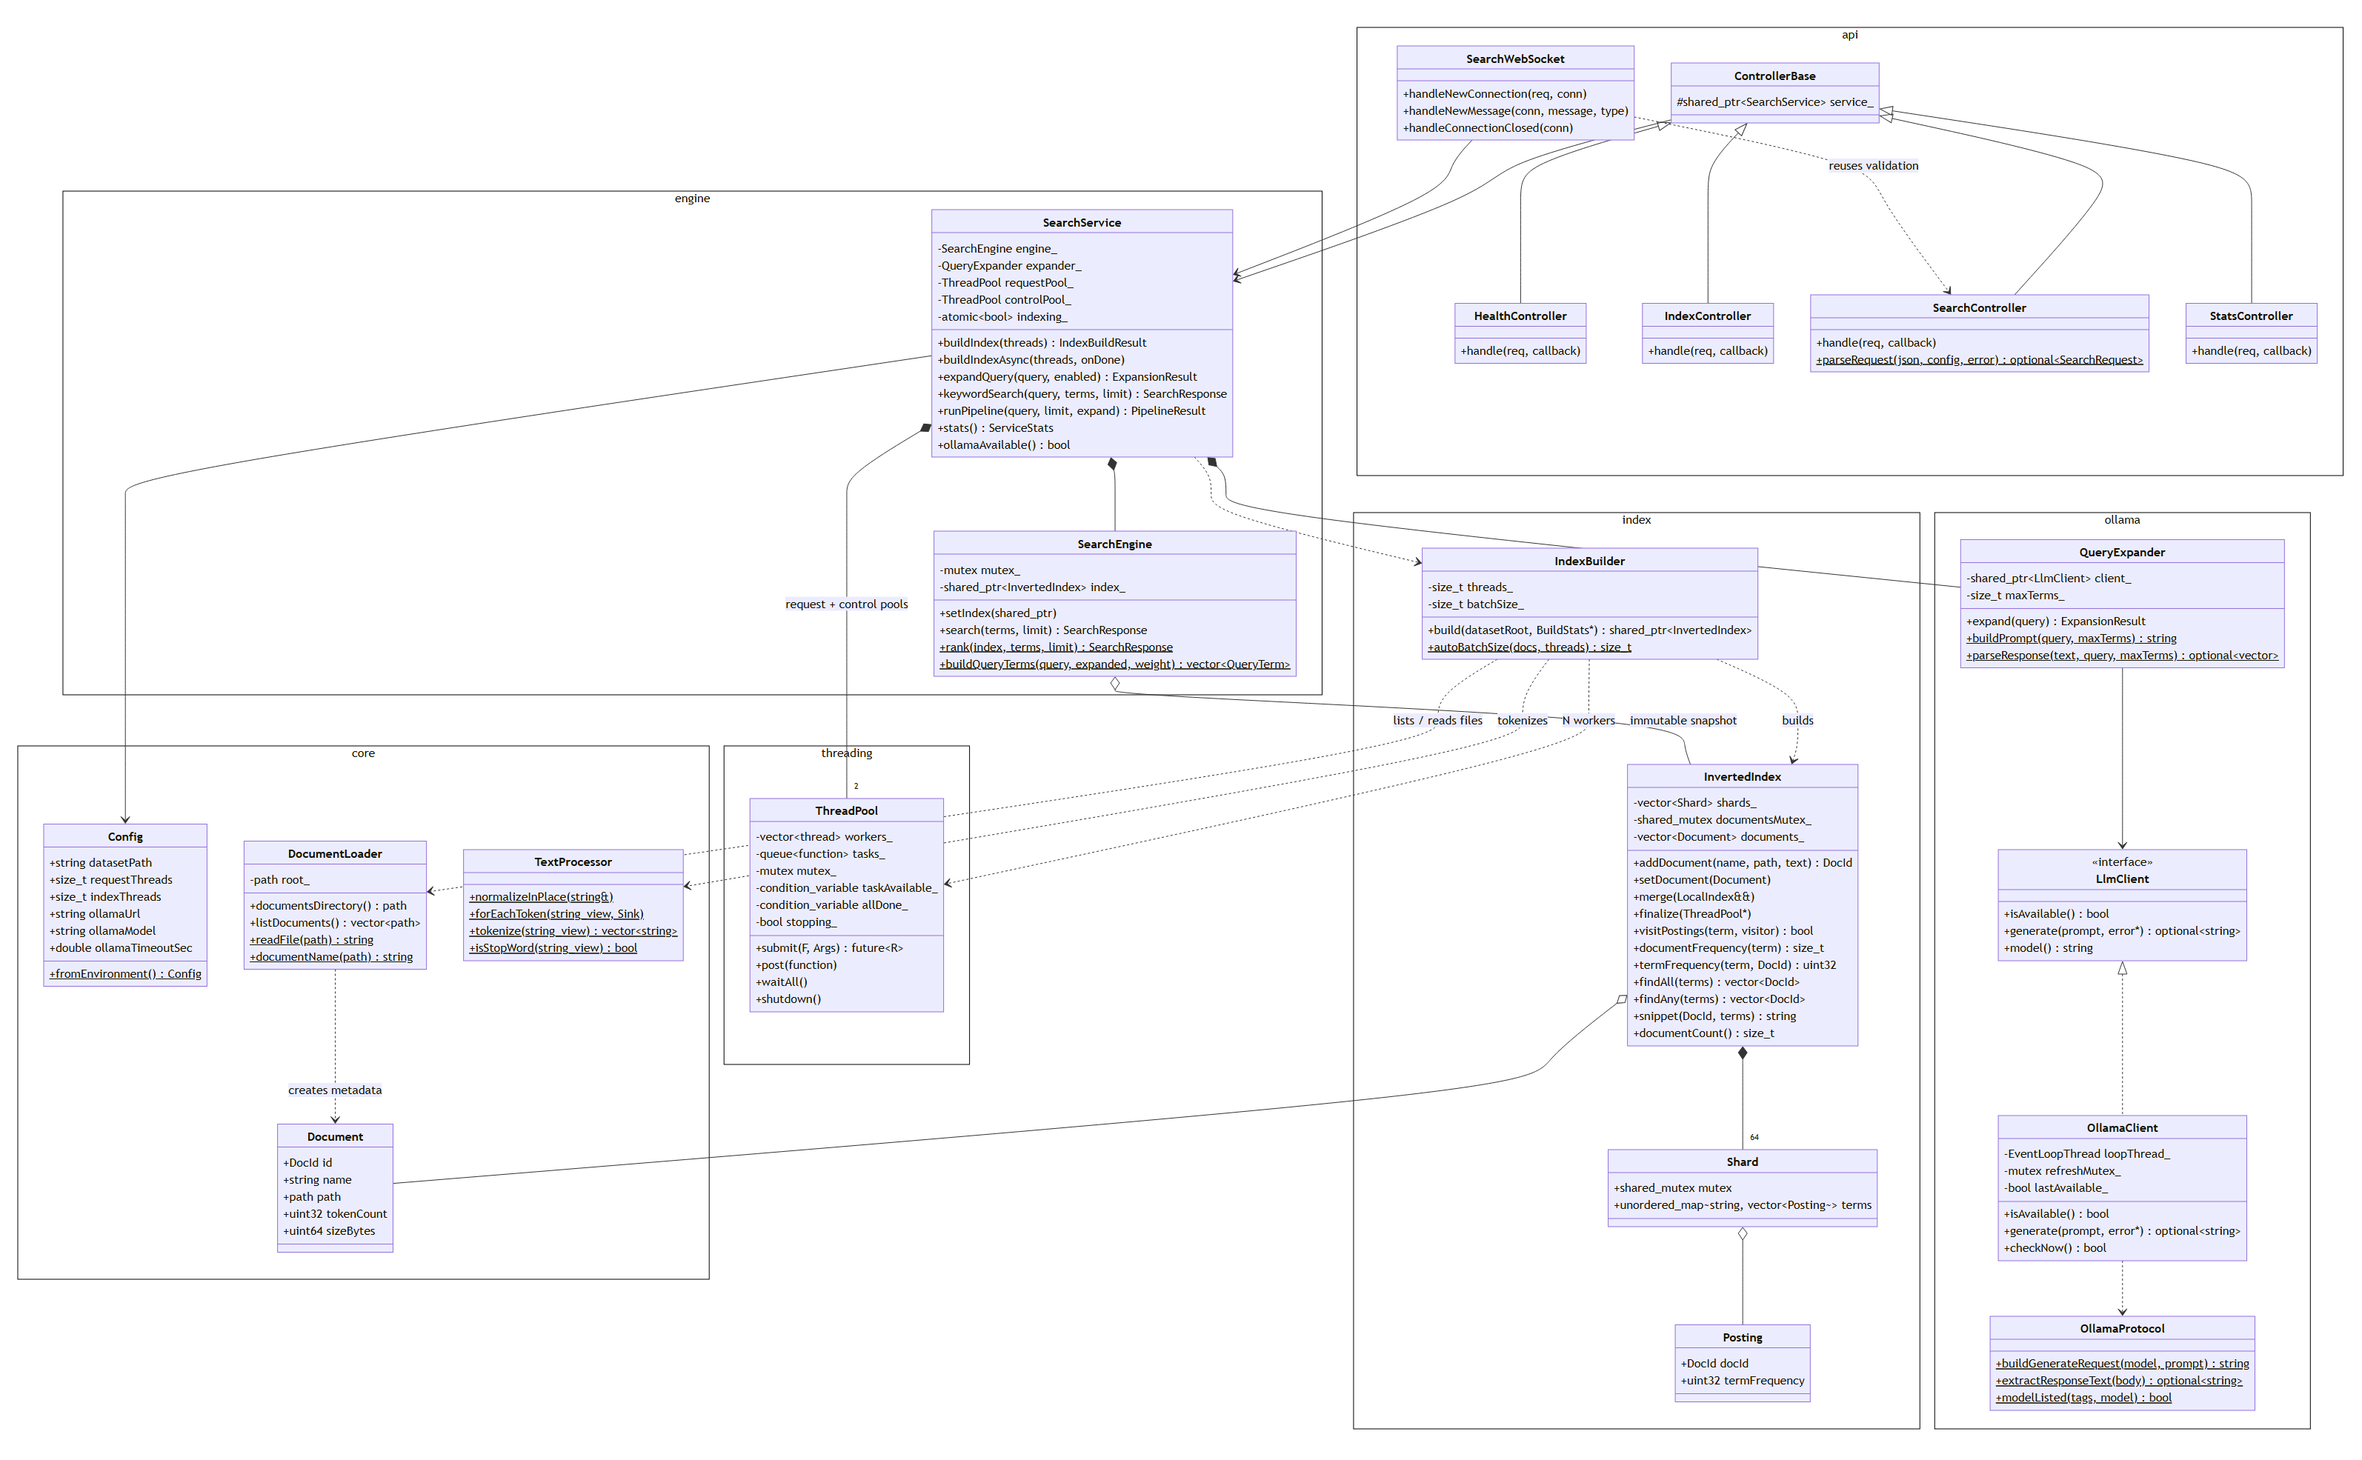
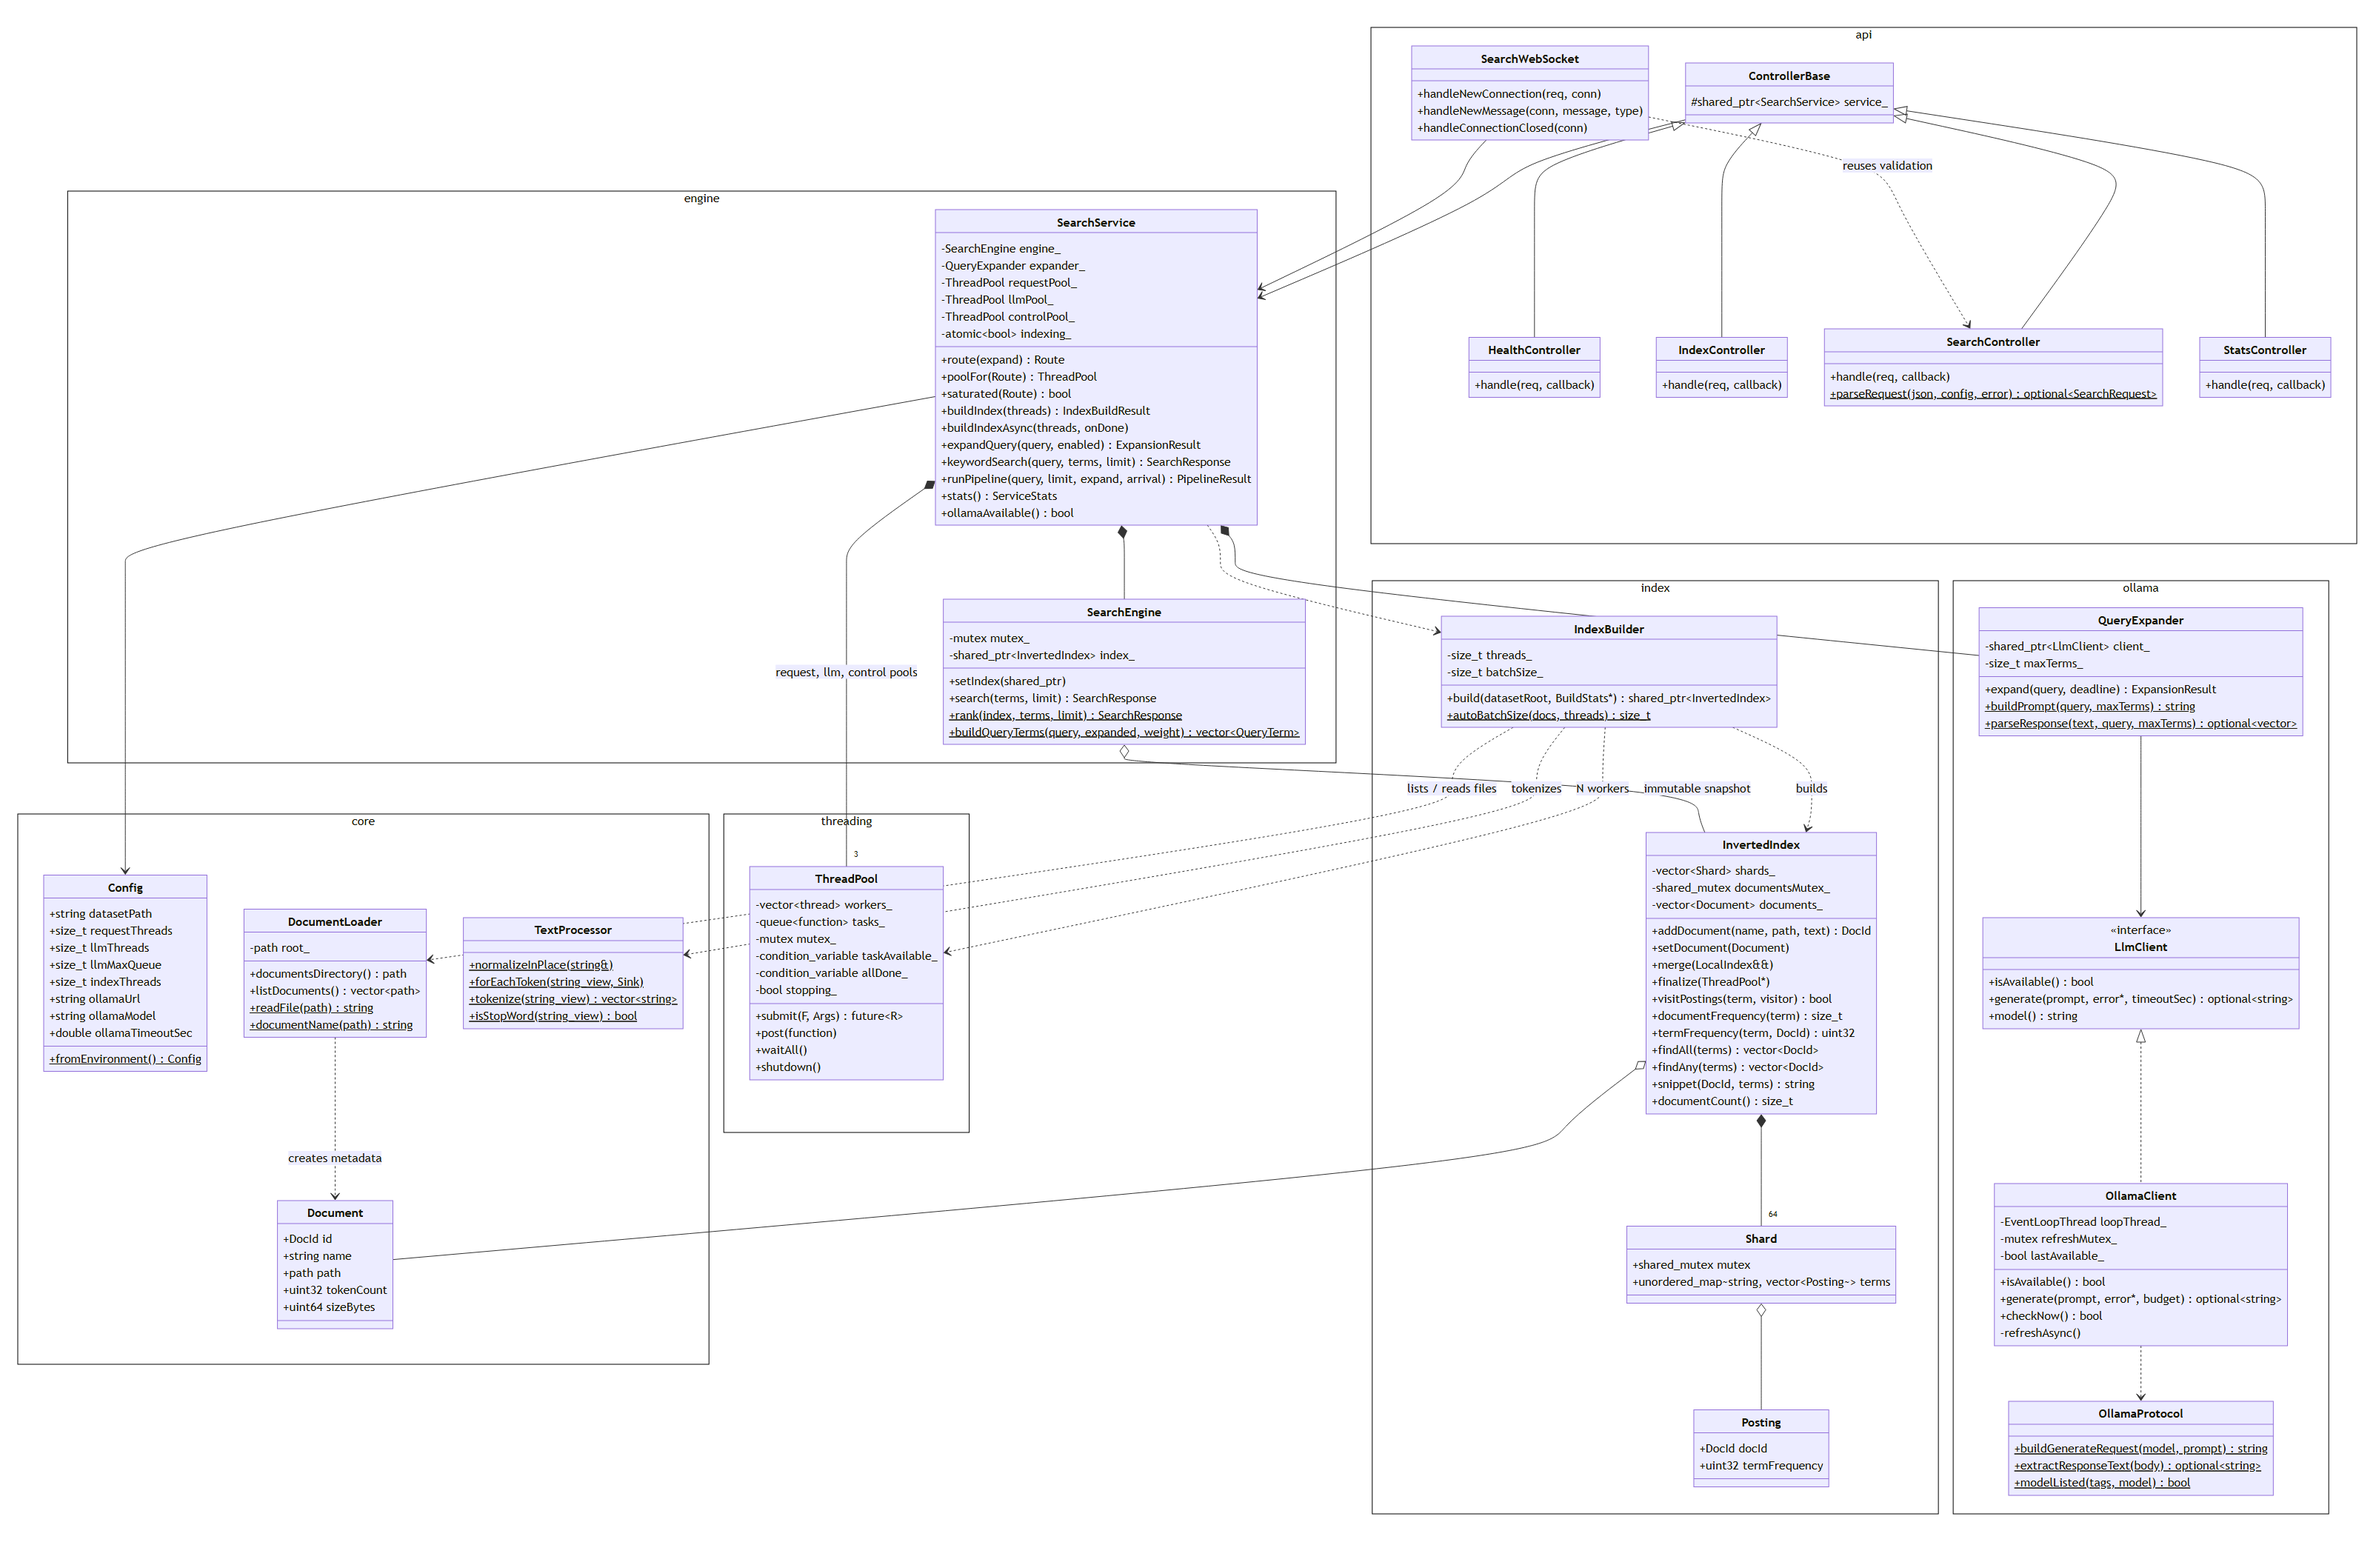
docs(uml): add CLI and benchmark sequence diagrams, update for LLM bulkhead

diff --git a/docs/uml/README.md b/docs/uml/README.md
@@ -8,10 +8,15 @@
 | Use Case | [use_case.mmd](use_case.mmd) | [use_case.png](use_case.png) |
 | Class Diagram | [class_diagram.mmd](class_diagram.mmd) | [class_diagram.png](class_diagram.png) |
 | Sequence: побудова індексу (`POST /api/index`, автоіндексація) | [seq_index_build.mmd](seq_index_build.mmd) | [seq_index_build.png](seq_index_build.png) |
-| Sequence: REST-пошук з Query Expansion і fallback (`POST /api/search`, CLI) | [seq_rest_search.mmd](seq_rest_search.mmd) | [seq_rest_search.png](seq_rest_search.png) |
+| Sequence: REST-пошук з Query Expansion, LLM-bulkhead і fallback (`POST /api/search`) | [seq_rest_search.mmd](seq_rest_search.mmd) | [seq_rest_search.png](seq_rest_search.png) |
 | Sequence: WebSocket-пошук (`/ws/search`, Web UI) | [seq_websocket.mmd](seq_websocket.mmd) | [seq_websocket.png](seq_websocket.png) |
 | Sequence: запуск системи, health/stats | [seq_health_stats.mmd](seq_health_stats.mmd) | [seq_health_stats.png](seq_health_stats.png) |
+| Sequence: CLI-клієнт (`./search`) | [seq_cli.mmd](seq_cli.mmd) | [seq_cli.png](seq_cli.png) |
+| Sequence: запуск benchmark і побудова графіків | [seq_benchmark.mmd](seq_benchmark.mmd) | [seq_benchmark.png](seq_benchmark.png) |
 | Deployment (Docker Compose) | [deployment.mmd](deployment.mmd) | [deployment.png](deployment.png) |
+
+Кожен прецедент діаграми Use Case має свою sequence-діаграму: пошук (REST, WebSocket, CLI), розширення
+запиту та fallback (REST-діаграма), перегляд стану і статистики, побудова індексу, benchmark.
 
 Mermaid не має окремого типу Use Case Diagram, тому вона побудована як flowchart:
 актори — заокруглені вузли, прецеденти — кола, зв'язки «include»/«extend» — пунктир.
